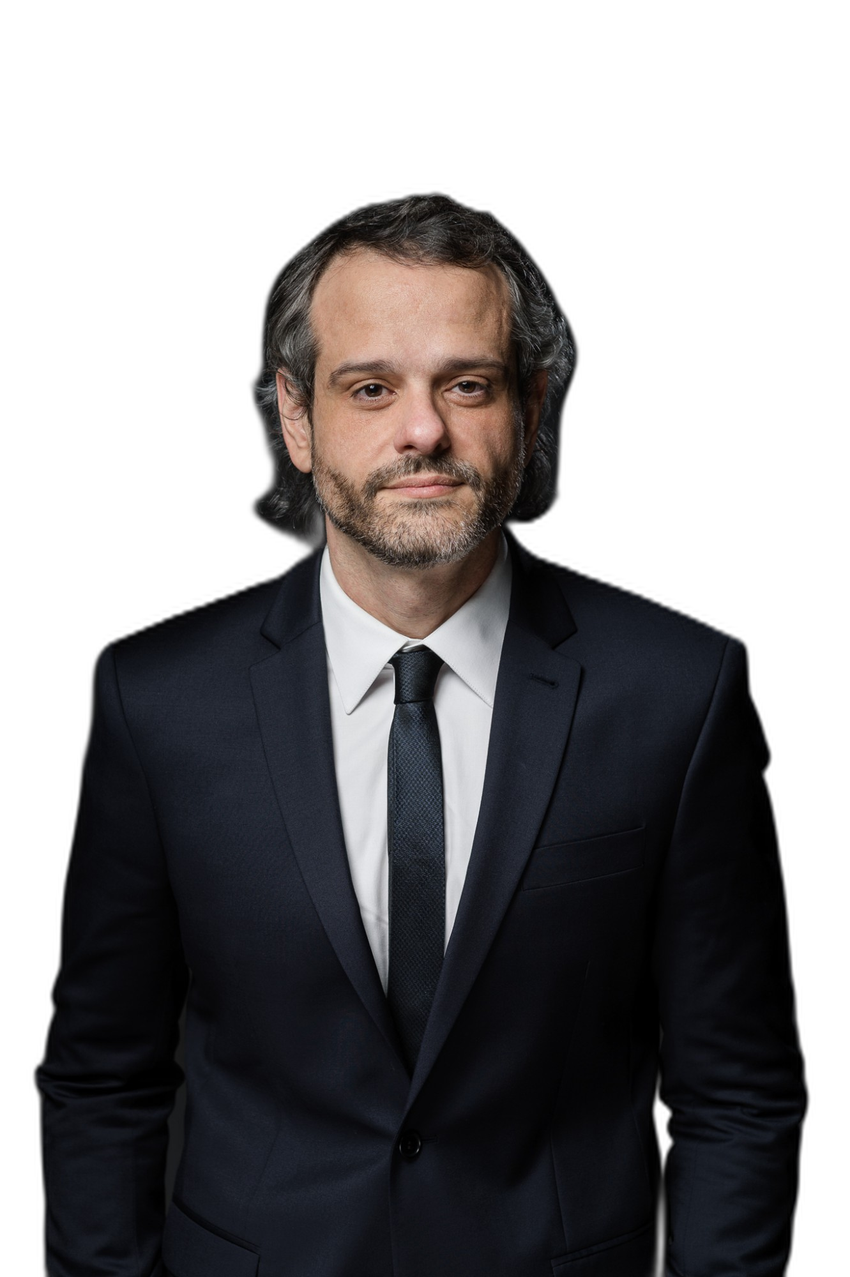
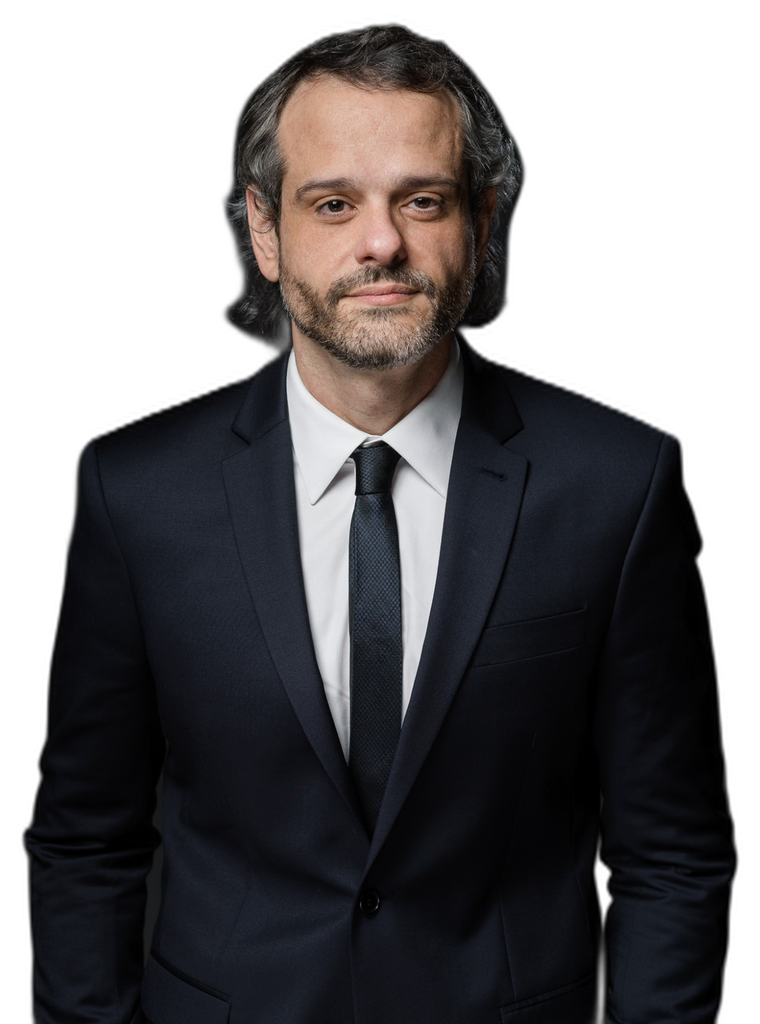
feat: menu Perfil/Material didático, menos espaço cabeça-menu, paleta unificada
- Renomeia /sobre → /perfil (página Perfil); 'Saiba mais' aponta para /perfil/
- Adiciona 'Perfil' ao menu; 'Materiais Didáticos' → 'Material didático'
- Foto recortada na bounding box da pessoa + herói com menos topo: cabeça
  mais próxima da barra de menus
- Paleta de acento unificada com o herói (primary azul-acinzentado, neutral slate)

diff --git a/content/_index.md b/content/_index.md
@@ -9,7 +9,7 @@ sections:
     content:
       text: |
         <style>
-        .hero{position:relative;left:50%;transform:translateX(-50%);width:min(1140px,92vw);display:grid;grid-template-columns:minmax(330px,470px) minmax(0,1fr);gap:2.5rem;align-items:center;min-height:78vh}
+        .hero{position:relative;left:50%;transform:translateX(-50%);width:min(1140px,92vw);display:grid;grid-template-columns:minmax(330px,470px) minmax(0,1fr);gap:2.5rem;align-items:center;min-height:64vh;margin-top:-1.5rem}
         .hero__photo{position:relative;display:flex;align-items:center;justify-content:center}
         .hero__photo picture{display:contents}
         .hero__photo img{width:100%;max-height:86vh;object-fit:contain;display:block;-webkit-mask-image:linear-gradient(to bottom,#000 85%,transparent 100%);mask-image:linear-gradient(to bottom,#000 85%,transparent 100%)}
@@ -31,7 +31,7 @@ sections:
             <h1 class="hero__name">Carlo Cosentino</h1>
             <div class="hero__role">Professor Adjunto · Faculdade de Direito do Recife · UFPE</div>
             <p class="hero__bio">Doutor em Direito pela UFPE. Pesquisa os impactos das tecnologias da informação e da comunicação nas relações de trabalho — da plataformização ao neotaylorismo digital, em diálogo com a teoria social crítica.</p>
-            <a class="hero__btn" href="/sobre/">Saiba mais →</a>
+            <a class="hero__btn" href="/perfil/">Saiba mais →</a>
             <div class="hero__social">
               <a href="mailto:contato@carlocosentino.com.br">Contato</a>
               <a href="https://orcid.org/0000-0002-7661-4688" target="_blank" rel="noopener">ORCID</a>
@@ -44,6 +44,8 @@ sections:
         </div>
     design:
       columns: '1'
+      spacing:
+        padding: ['0', '0', '0', '0']
   - block: collection
     id: papers
     content:

diff --git a/content/materiais/_index.md b/content/materiais/_index.md
@@ -1,12 +1,12 @@
 ---
-title: 'Materiais Didáticos'
+title: 'Material didático'
 date: 2026-06-04
 type: landing
 
 sections:
   - block: markdown
     content:
-      title: 'Materiais Didáticos'
+      title: 'Material didático'
       text: |-
         Espaço dedicado a materiais de apoio ao ensino e à pesquisa — planos de curso, roteiros de leitura, slides de aula e textos de referência em Direito do Trabalho e Direito Sindical.
 

diff --git a/content/perfil/index.md b/content/perfil/index.md
@@ -1,5 +1,5 @@
 ---
-title: 'Sobre'
+title: 'Perfil'
 date: 2026-06-04
 type: landing
 
